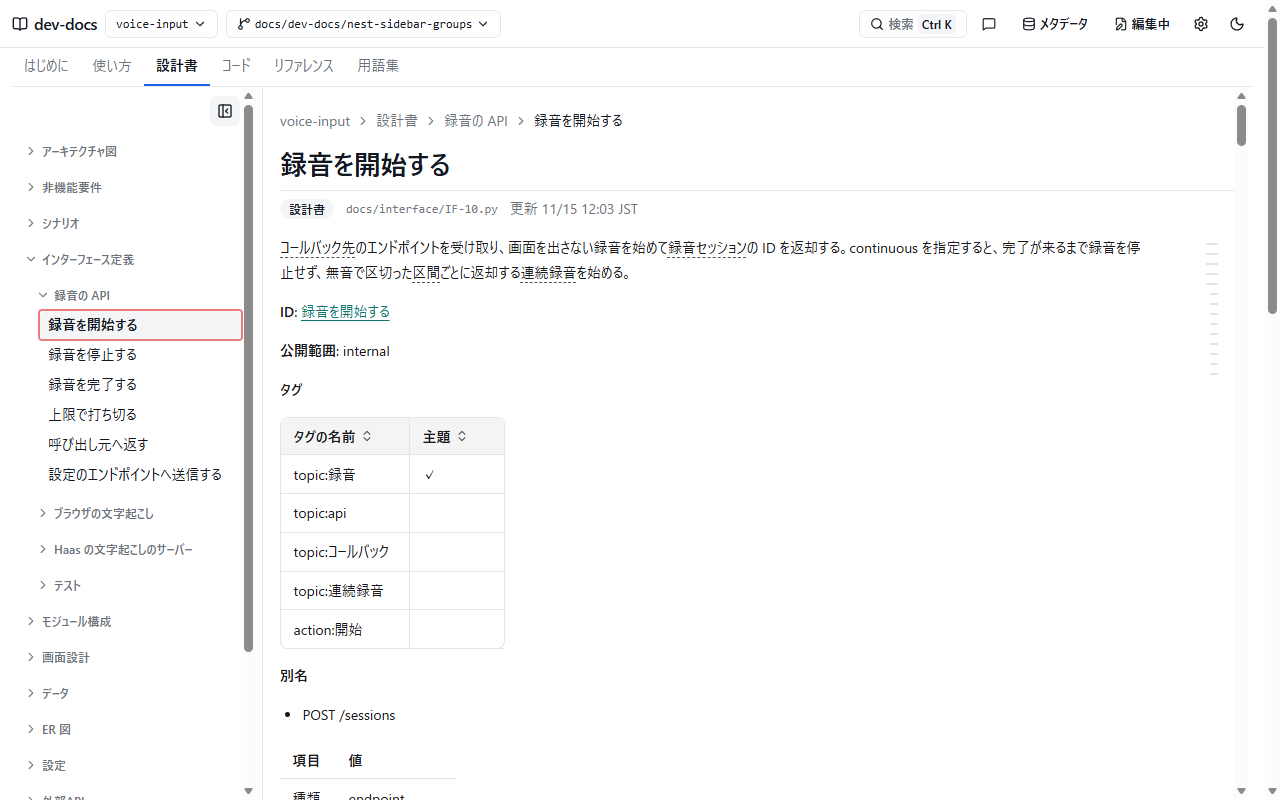
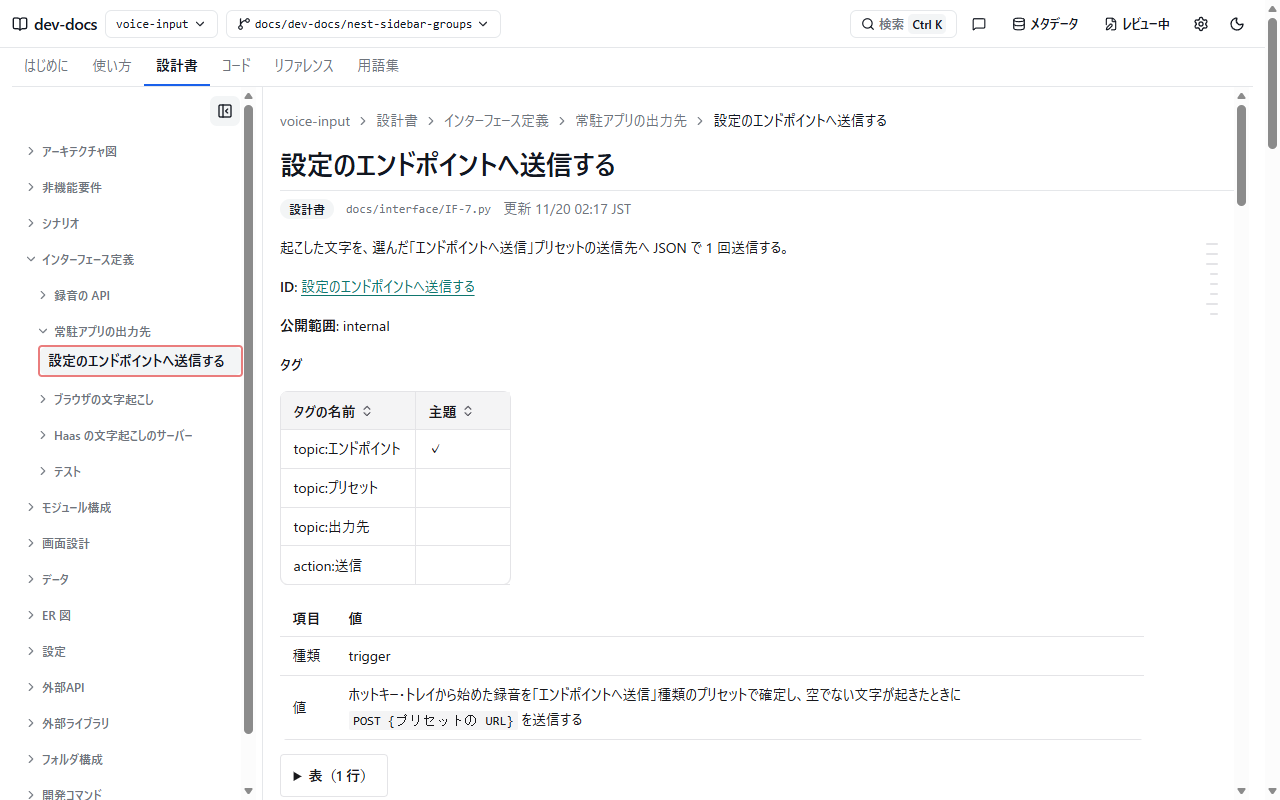
docs: PR ドキュメント #351 のインターフェース定義の画面を撮り直す

diff --git a/docs/pr/351/README.mark.md b/docs/pr/351/README.mark.md
@@ -44,7 +44,7 @@ project-index の `nav` の `group` は、子の `items[]` に `group` を持て
 | 設計書 > モジュール構成 > 録音セッション | 1280x800 | [1-design-module_1280x800.png](./画像/1-design-module_1280x800.png) |
 | 設計書 > モジュール構成 > 録音セッション | 768x1024 | [1-design-module_768x1024.png](./画像/1-design-module_768x1024.png) |
 | 設計書 > シナリオ > 常駐アプリで使用する | 1280x800 | [2-design-scenario_1280x800.png](./画像/2-design-scenario_1280x800.png) |
-| 設計書 > インターフェース定義 > 録音の API | 1280x800 | [3-design-interface_1280x800.png](./画像/3-design-interface_1280x800.png) |
+| 設計書 > インターフェース定義 > 常駐アプリの出力先 | 1280x800 | [3-design-interface_1280x800.png](./画像/3-design-interface_1280x800.png) |
 | 設計書 > データ > 外の端末のブラウザ | 1280x800 | [4-design-data_1280x800.png](./画像/4-design-data_1280x800.png) |
 | 設計書 > 外部ライブラリ > Haas の文字起こしのサーバー | 1280x800 | [5-design-library_1280x800.png](./画像/5-design-library_1280x800.png) |
 | コード > 常駐アプリ > features/ | 1280x800 | [6-code_1280x800.png](./画像/6-code_1280x800.png) |
